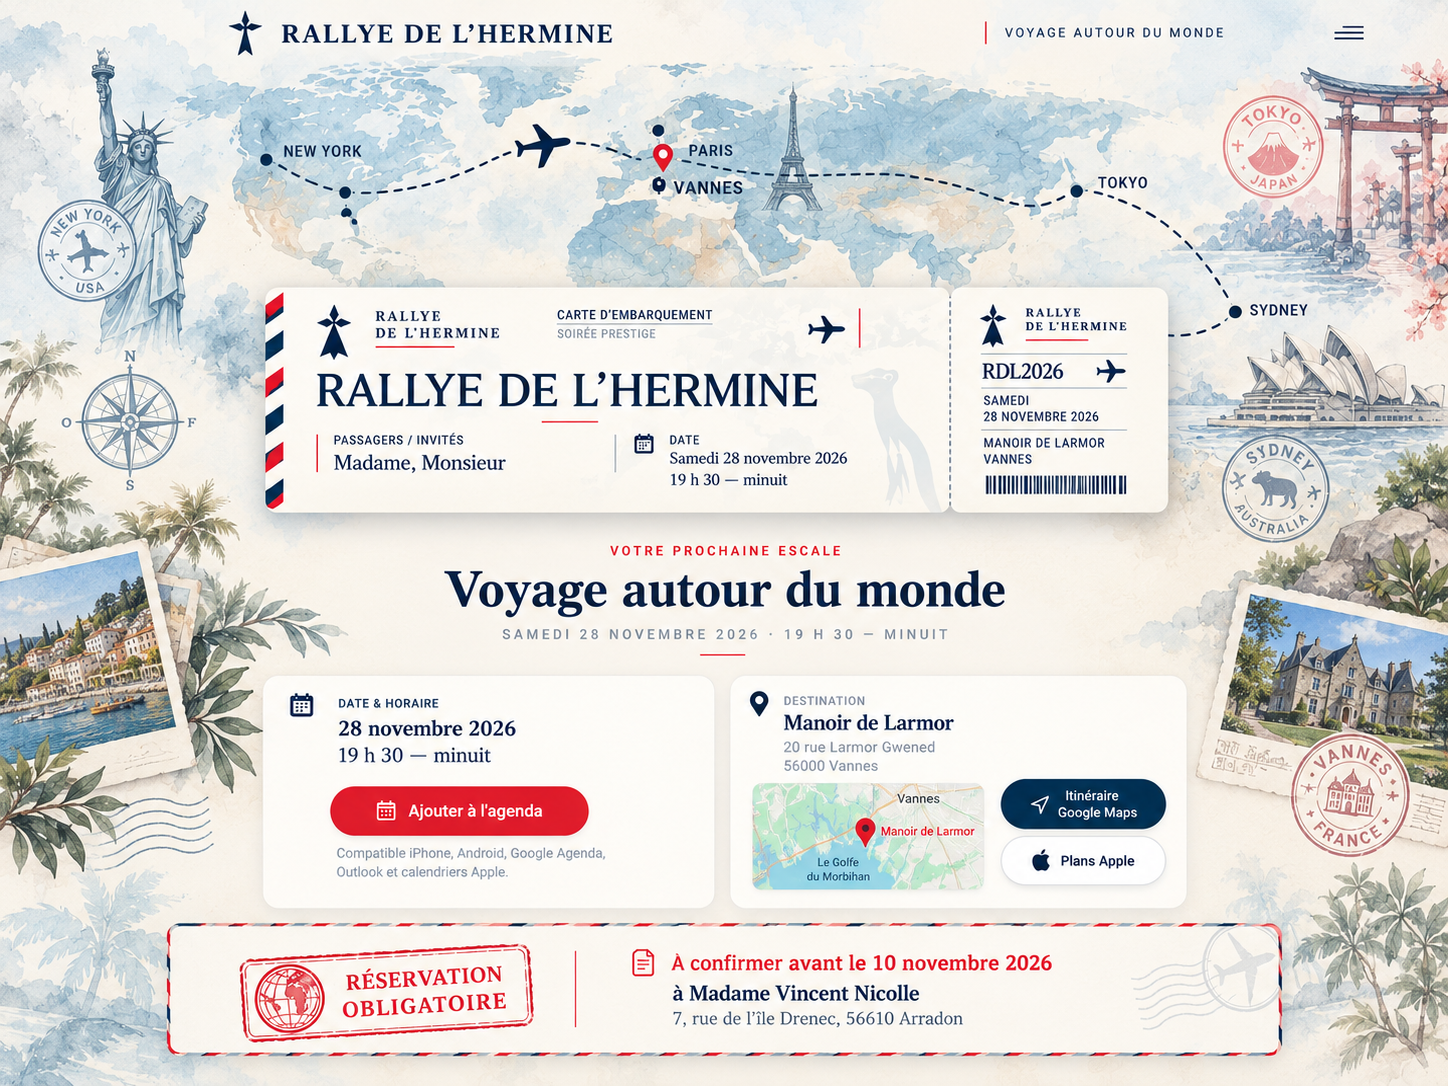
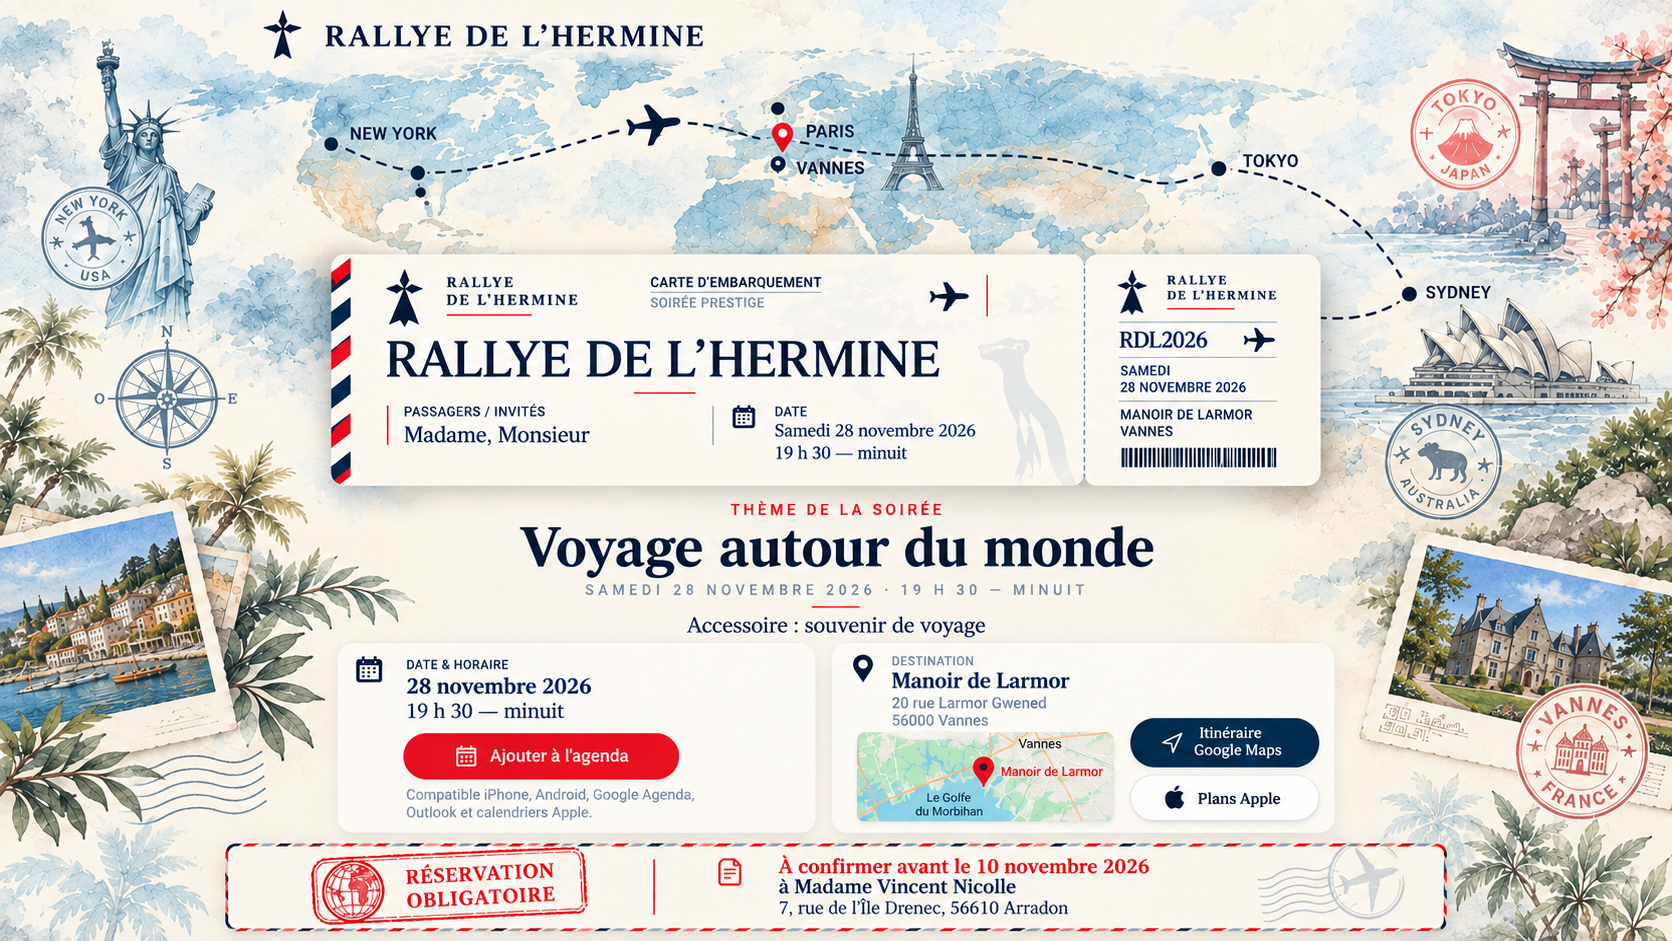
Mise à jour du visuel du Rallye de l'Hermine

diff --git a/index.html b/index.html
@@ -36,7 +36,7 @@ header{display:flex;align-items:center;justify-content:space-between;padding:8px
  -webkit-user-drag:none;
 }
 
-/* Hotspots are expressed as percentages of the 1536×1024 artwork.
+/* Hotspots are expressed as percentages of the 1672×941 artwork.
    They therefore stay aligned when the image scales responsively. */
 .hotspot{
  position:absolute;
@@ -60,31 +60,31 @@ header{display:flex;align-items:center;justify-content:space-between;padding:8px
 
 /* Red "Ajouter à l'agenda" button */
 .hotspot-calendar{
- left:23.0%;
- top:74.1%;
- width:15.0%;
- height:5.4%;
+ left:24.0%;
+ top:78.0%;
+ width:16.7%;
+ height:5.0%;
 }
 /* Google Maps button */
 .hotspot-google{
- left:69.0%;
- top:74.0%;
- width:12.4%;
- height:5.6%;
+ left:67.6%;
+ top:76.4%;
+ width:11.7%;
+ height:5.4%;
 }
 /* Apple Plans button */
 .hotspot-apple{
- left:69.0%;
- top:80.0%;
- width:12.4%;
- height:5.3%;
+ left:67.6%;
+ top:82.7%;
+ width:11.7%;
+ height:4.9%;
 }
 /* Reservation panel: copies response address */
 .hotspot-rsvp{
- left:11.0%;
- top:87.4%;
- width:72.0%;
- height:10.0%;
+ left:13.5%;
+ top:89.7%;
+ width:73.0%;
+ height:8.9%;
  border-radius:24px;
 }
 
